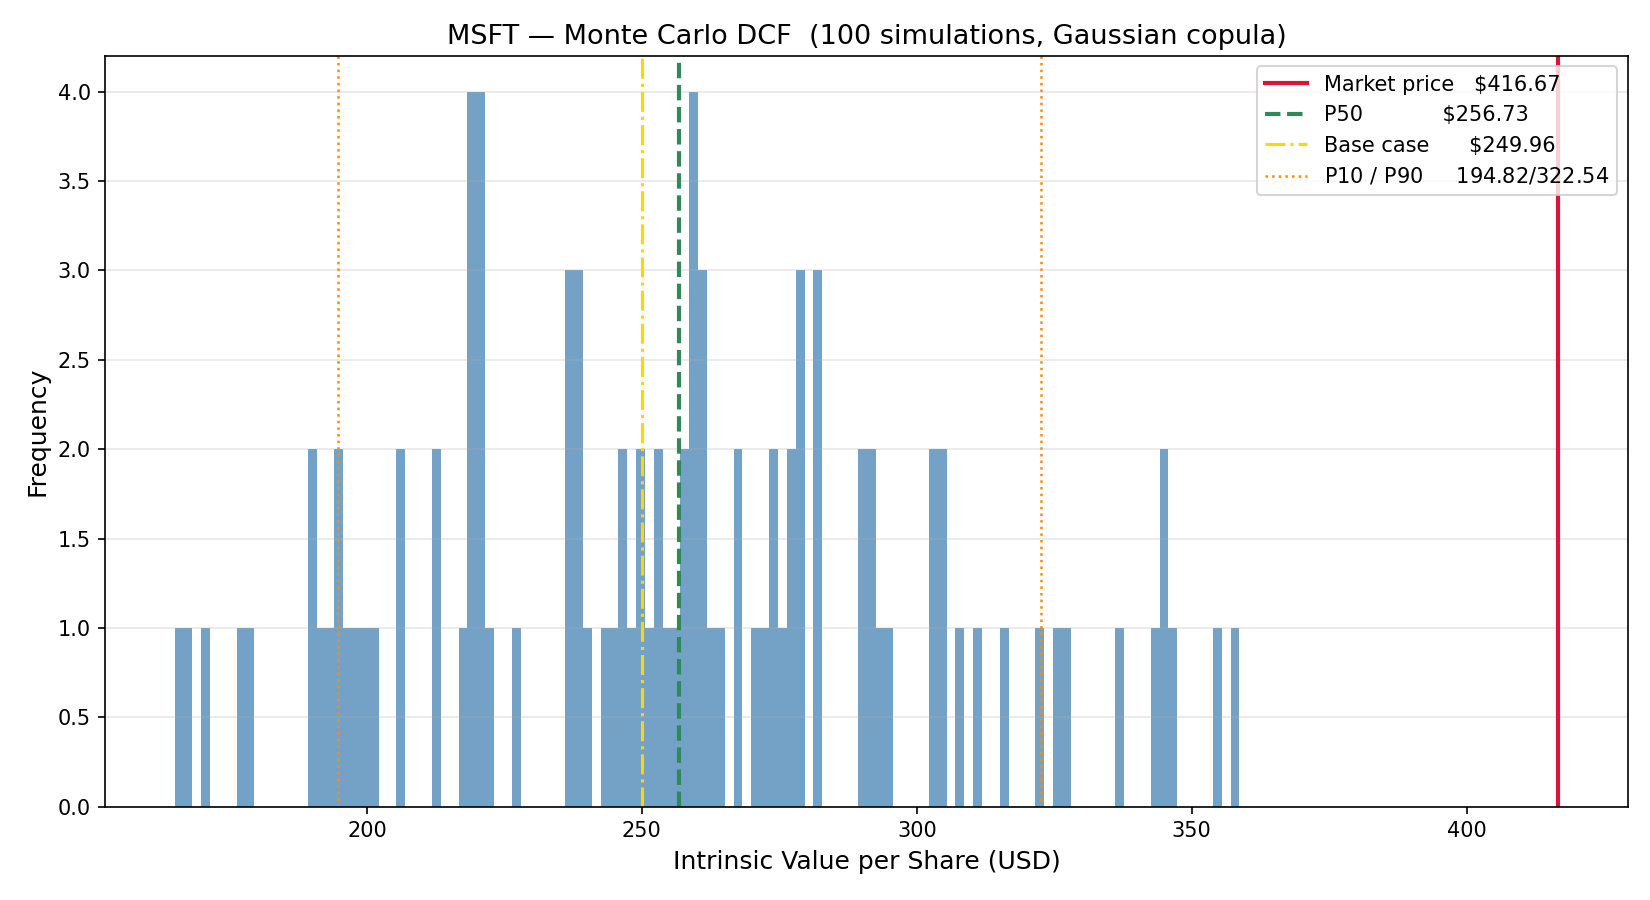
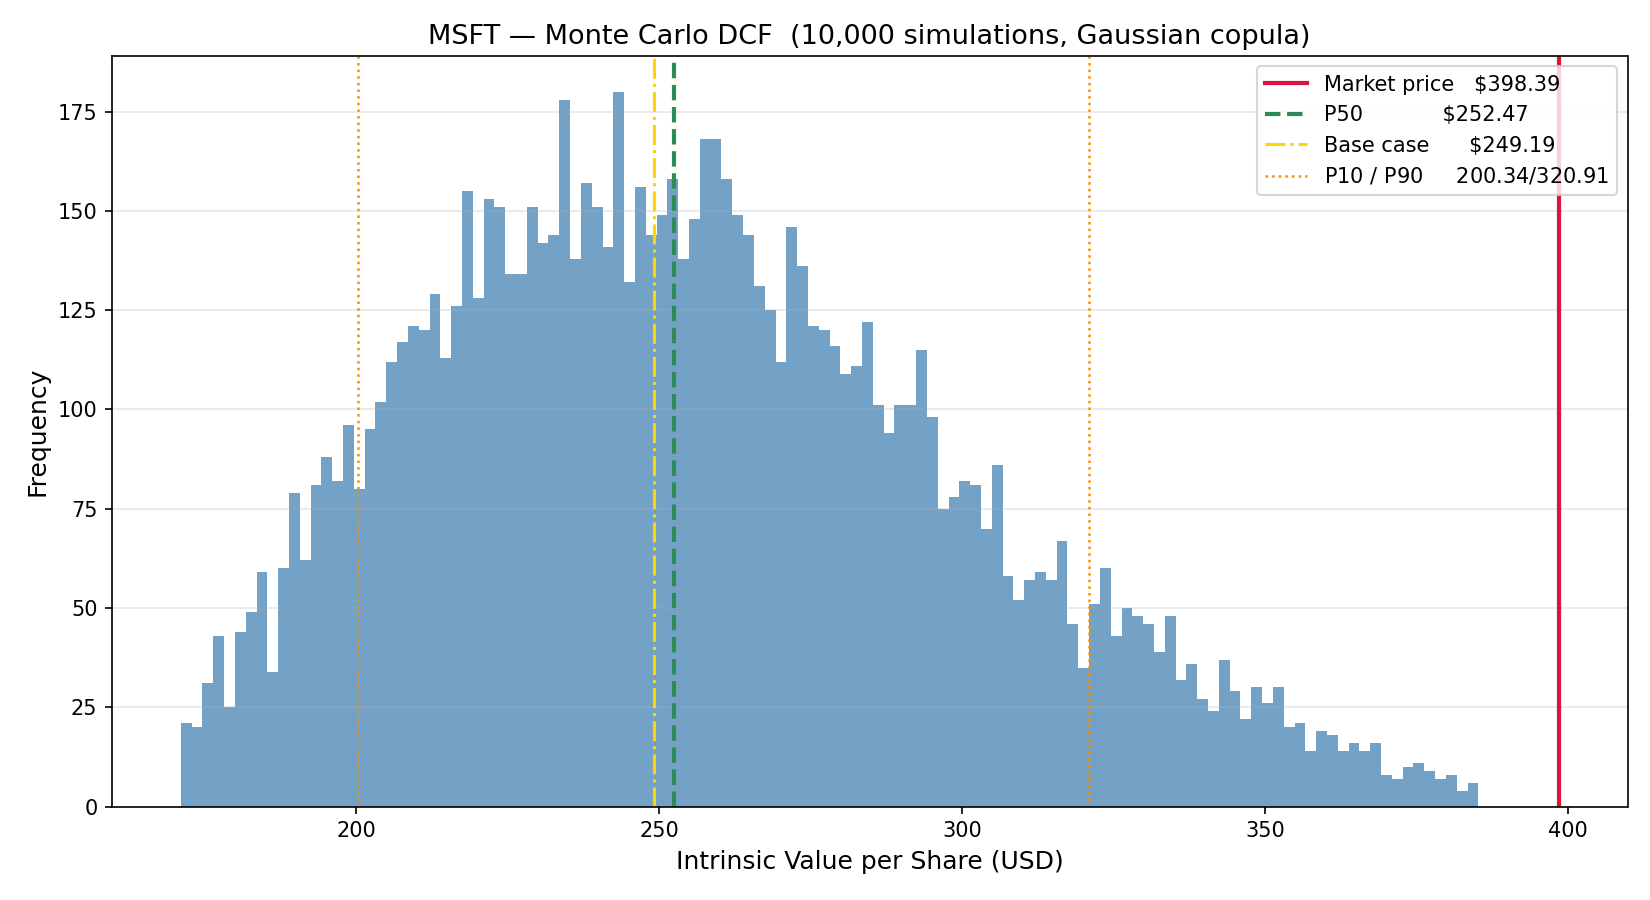
smi-cleaned

diff --git a/valuation/wacc.py b/valuation/wacc.py
@@ -103,9 +103,14 @@ def _get_rf_annual_series():
 def _reconstruct_wacc_history(raw, drivers, beta_adj, eq_w, dt_w, rf_annual):
     """Reconstruct WACC for each year with available EBIT + interest expense.
     Beta (Blume-adjusted), ERP, and D/E weights are held fixed at current values;
-    only the risk-free rate and coverage-derived credit spread vary year-to-year."""
+    only the risk-free rate and coverage-derived credit spread vary year-to-year.
+
+    Returns (wacc_list, detail_rows) where detail_rows is a list of dicts for
+    the WACC_DEBUG diagnostic table.
+    """
     common_idx = raw.ebit.index.intersection(raw.interest_expense.index)
     reconstructed = []
+    details = []
     for ts in common_idx:
         ebit_val = float(raw.ebit[ts])
         int_val  = float(raw.interest_expense[ts])
@@ -113,18 +118,31 @@ def _reconstruct_wacc_history(raw, drivers, beta_adj, eq_w, dt_w, rf_annual):
             continue   # skip loss years; negative coverage distorts reconstruction
         yr = ts.year
         if yr in rf_annual.index:
-            rf_yr = float(rf_annual[yr])
+            rf_yr     = float(rf_annual[yr])
+            rf_source = f"DGS10[{yr}]"
         elif not rf_annual.empty:
-            nearest = min(rf_annual.index, key=lambda y: abs(y - yr))
-            rf_yr = float(rf_annual[nearest])
+            nearest   = min(rf_annual.index, key=lambda y: abs(y - yr))
+            rf_yr     = float(rf_annual[nearest])
+            rf_source = f"DGS10[{nearest}] (nearest to {yr})"
         else:
             continue
-        cov_yr = ebit_val / int_val if int_val > 0 else float('inf')
-        _, spread_yr = _synthetic_rating(cov_yr)
+        cov_yr         = ebit_val / int_val if int_val > 0 else float('inf')
+        rating_yr, spread_yr = _synthetic_rating(cov_yr)
         coe_yr  = rf_yr + beta_adj * ERP
         cod_yr  = (rf_yr + spread_yr) * (1.0 - drivers.tax_rate)
-        reconstructed.append(eq_w * coe_yr + dt_w * cod_yr)
-    return reconstructed
+        wacc_yr = eq_w * coe_yr + dt_w * cod_yr
+        reconstructed.append(wacc_yr)
+        details.append({
+            'date':     ts,
+            'yr':       yr,
+            'rf_yr':    rf_yr,
+            'rf_src':   rf_source,
+            'cov':      cov_yr,
+            'rating':   rating_yr,
+            'spread':   spread_yr,
+            'wacc':     wacc_yr,
+        })
+    return reconstructed, details
 
 
 def compute_wacc(raw: RawData, drivers: Drivers) -> WACCResult:
@@ -157,8 +175,8 @@ def compute_wacc(raw: RawData, drivers: Drivers) -> WACCResult:
     wacc = eq_w * cost_of_equity + dt_w * cost_of_debt_aftertax
 
     # ── Historical WACC sigma ─────────────────────────────────────────────────
-    rf_annual   = _get_rf_annual_series()
-    hist_waccs  = _reconstruct_wacc_history(raw, drivers, beta_adj, eq_w, dt_w, rf_annual)
+    rf_annual              = _get_rf_annual_series()
+    hist_waccs, _wdet      = _reconstruct_wacc_history(raw, drivers, beta_adj, eq_w, dt_w, rf_annual)
     if len(hist_waccs) >= 3:
         sigma_w    = float(np.std(hist_waccs))
         w_fallback = False
@@ -169,6 +187,33 @@ def compute_wacc(raw: RawData, drivers: Drivers) -> WACCResult:
         w_fallback = True
         print(f"  WACC historical σ  : {_WACC_SIGMA_FALLBACK:.3%}  "
               f"[FALLBACK — only {len(hist_waccs)} reconstructable year(s)]")
+
+    # ── Debug table — set WACC_DEBUG=1 to print per-year reconstruction ───────
+    if os.getenv('WACC_DEBUG') and _wdet:
+        _waccs_arr = np.array([d['wacc'] for d in _wdet])
+        _rfs_arr   = np.array([d['rf_yr'] for d in _wdet])
+        print(f"\n  {'─'*82}")
+        print(f"  WACC RECONSTRUCTION DEBUG — {raw.ticker}")
+        print(f"  {'─'*82}")
+        print(f"  {'Date':<14} {'RF used':>10} {'RF src note':<26} "
+              f"{'Coverage':>10} {'Rating':<12} {'Spread':>8} {'Recon WACC':>11}")
+        print(f"  {'─'*82}")
+        for d in _wdet:
+            cov_str = f"{d['cov']:.2f}×" if d['cov'] != float('inf') else "∞"
+            print(f"  {str(d['date'].date()):<14} {d['rf_yr']:>9.3%} "
+                  f"  {d['rf_src']:<26} {cov_str:>10} "
+                  f"{d['rating']:<12} {d['spread']:>7.3%} {d['wacc']:>10.3%}")
+        print(f"  {'─'*82}")
+        rf_std  = float(np.std(_rfs_arr))
+        rf_min, rf_max   = float(_rfs_arr.min()), float(_rfs_arr.max())
+        w_min,  w_max    = float(_waccs_arr.min()), float(_waccs_arr.max())
+        sensitivity = (w_max - w_min) / (rf_max - rf_min) if rf_max > rf_min else float('nan')
+        expected_sens = eq_w + dt_w * (1.0 - drivers.tax_rate)
+        print(f"  RF series:   min={rf_min:.3%}  max={rf_max:.3%}  std={rf_std:.3%}")
+        print(f"  WACC series: min={w_min:.3%}  max={w_max:.3%}  std={sigma_w:.3%}")
+        print(f"  Implied sensitivity (ΔWACC/ΔRF): {sensitivity:.3f}")
+        print(f"  Expected sensitivity (eq_w + dt_w×(1−t)): {expected_sens:.3f}")
+        print(f"  {'─'*82}")
 
     result = WACCResult(
         rf=rf,
